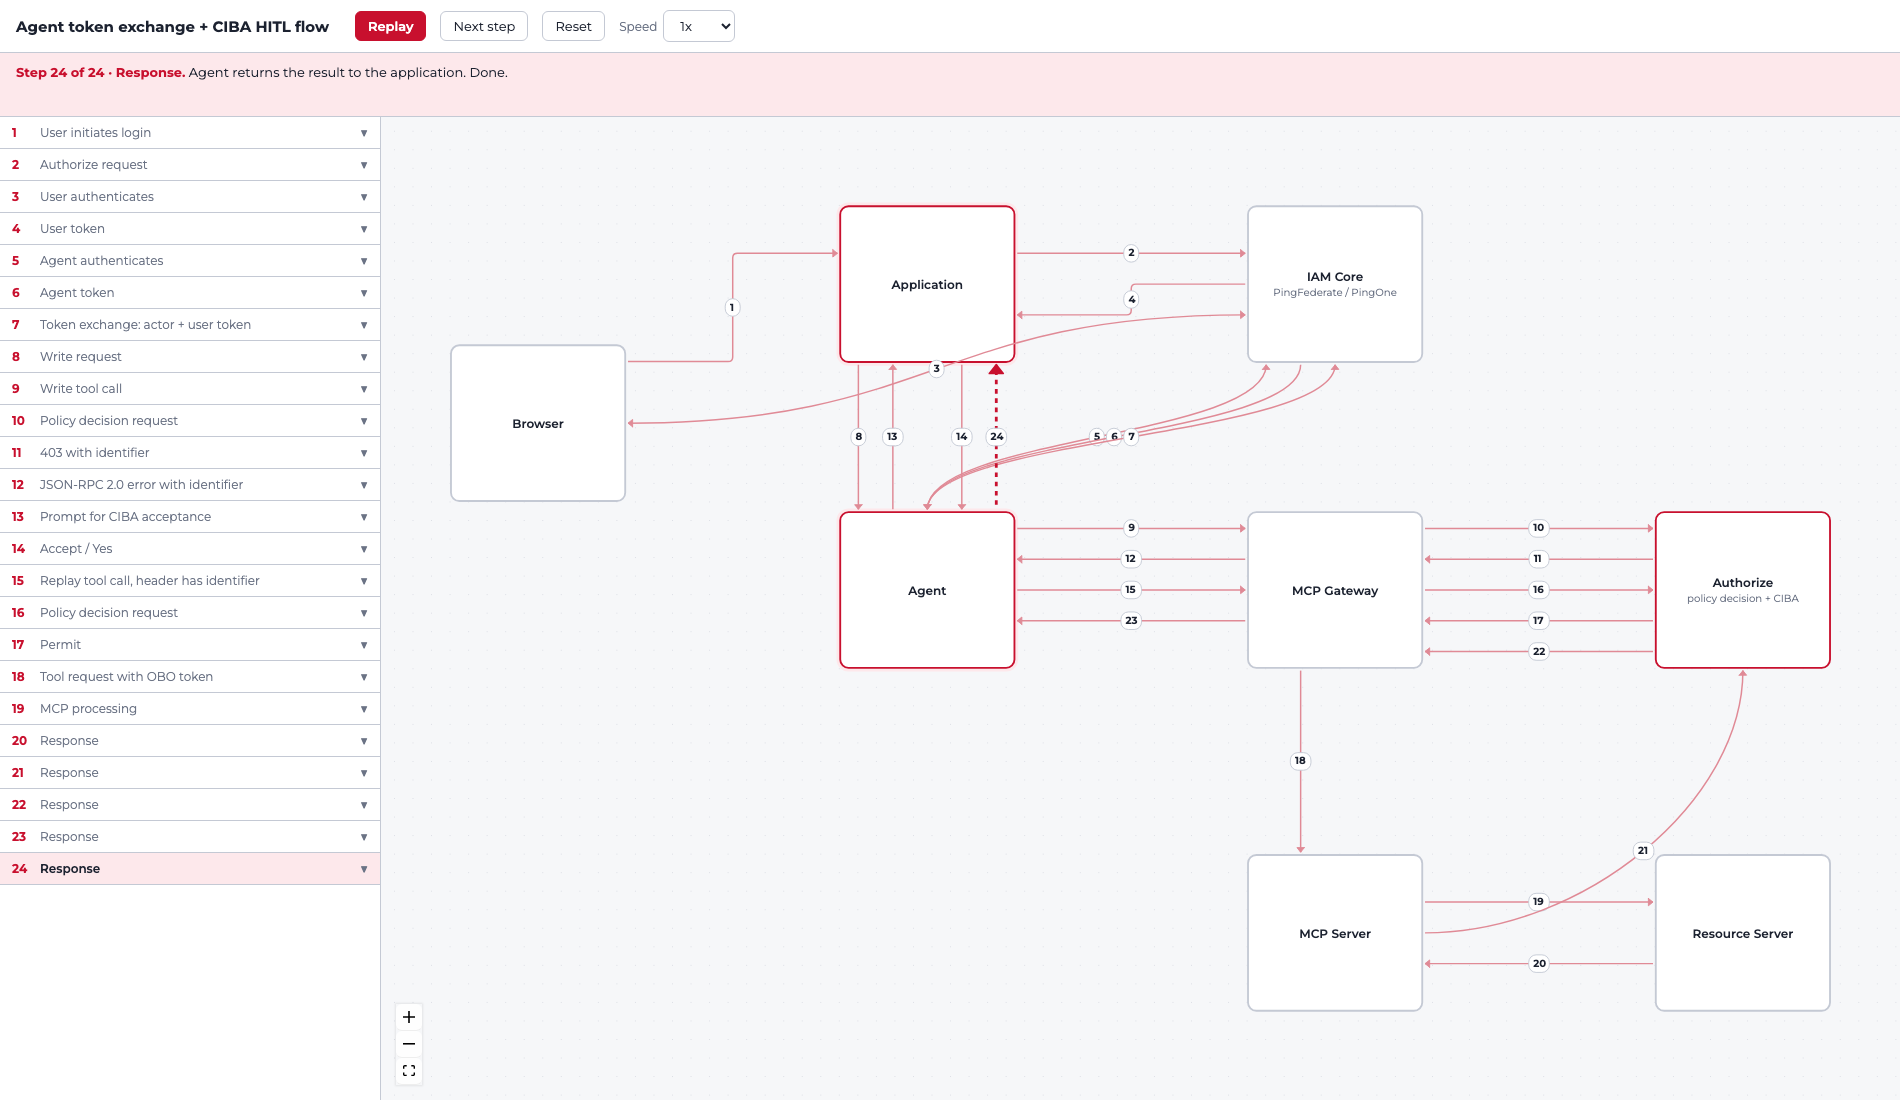
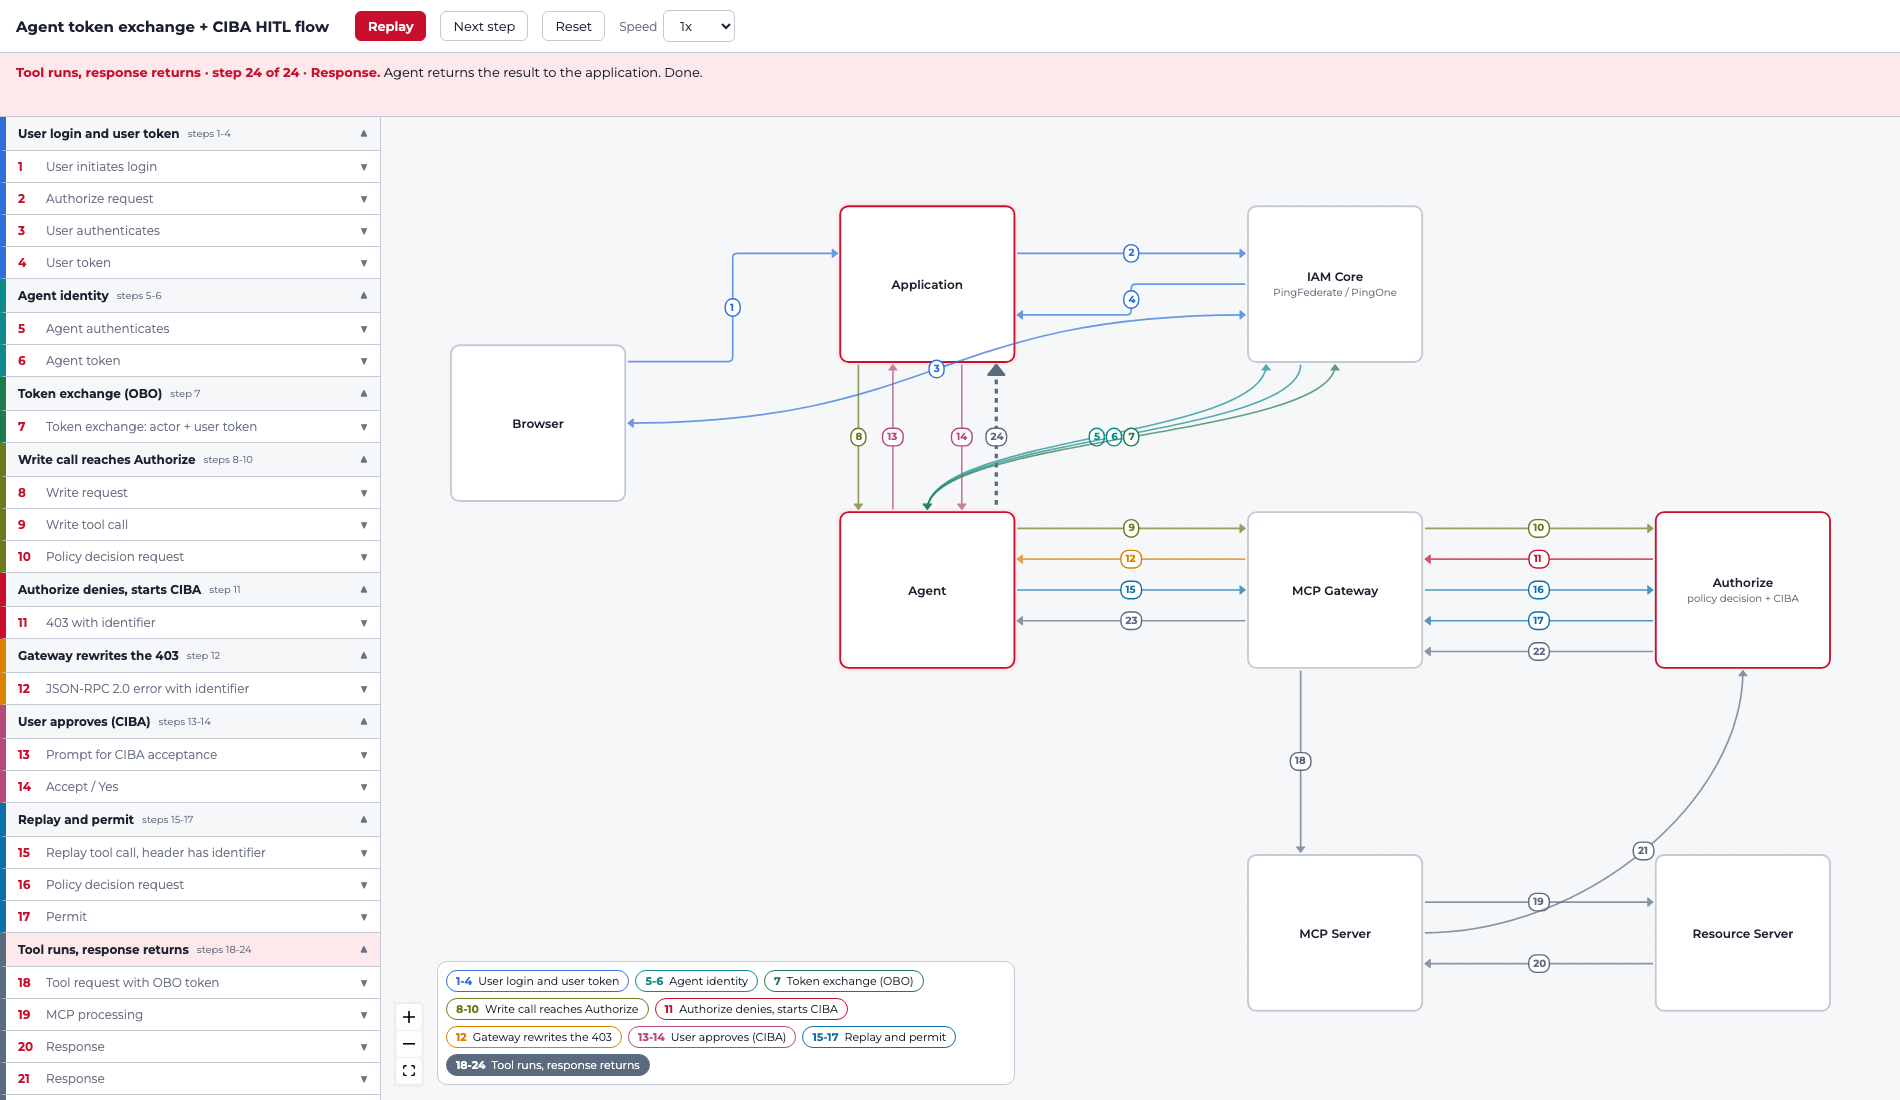
docs(planning): group the scope-to-tool POC diagram steps
Colored step groups in the step list, group legend and edge colors on the
canvas, and group names in the doc's step table. Steps stay individual.

diff --git a/docs/planning/scope-to-tool-poc/scope-to-tool-poc-diagram.html b/docs/planning/scope-to-tool-poc/scope-to-tool-poc-diagram.html
@@ -33,7 +33,19 @@
   .main { flex: 1; min-height: 0; display: flex; }
   .canvas { flex: 1; min-width: 0; }
   .list { width: 380px; overflow-y: auto; border-right: 1px solid var(--line); background: var(--panel); font-size: 12px; }
-  .item { border-bottom: 1px solid var(--line); }
+  .grp { display: flex; align-items: center; gap: 8px; padding: 9px 12px; cursor: pointer; font-weight: 700; font-size: 12px;
+         background: var(--bg); border-bottom: 1px solid var(--line); border-left: 6px solid var(--gc); }
+  .grp small { font-weight: 400; color: var(--muted); }
+  .grp .chev { margin-left: auto; color: var(--muted); font-size: 10px; }
+  .grp.on { background: var(--red-soft); }
+  .item { border-bottom: 1px solid var(--line); border-left: 6px solid var(--gc); }
+  .legend { display: flex; flex-wrap: wrap; gap: 6px; max-width: 560px; padding: 8px; background: var(--panel);
+            border: 1px solid var(--line); border-radius: 10px; font-size: 11px; }
+  .chip { display: flex; align-items: center; gap: 6px; padding: 3px 9px; border-radius: 12px; cursor: pointer;
+          border: 1.5px solid var(--gc); color: var(--ink); background: var(--panel); }
+  .chip b { color: var(--gc); }
+  .chip.on { background: var(--gc); color: #fff; }
+  .chip.on b { color: #fff; }
   .item .head { padding: 8px 12px; cursor: pointer; display: flex; gap: 8px; align-items: baseline; }
   .item .head:hover { background: var(--bg); }
   .item.on .head { background: var(--red-soft); font-weight: 600; }
@@ -69,7 +81,7 @@
 (function () {
   const h = React.createElement;
   const Flow = ReactFlow.default || ReactFlow;
-  const { Handle, Position, Background, Controls, MarkerType, useNodesState } = ReactFlow;
+  const { Handle, Position, Background, Controls, Panel, MarkerType, useNodesState } = ReactFlow;
 
   // Handles on every side at 10/30/50/70/90 percent, ids like r30, t70. Loose mode: any handle can be either end.
   const SIDES = { l: Position.Left, r: Position.Right, t: Position.Top, b: Position.Bottom };
@@ -247,6 +259,22 @@
   ];
   STEPS.forEach(function (s, i) { s.detail = DETAILS[i]; });
 
+  // Same grouping as the step table in the doc (section 9b). Steps stay individual; groups only organise them.
+  const GROUPS = [
+    { name: 'User login and user token',   from: 1,  to: 4,  color: '#2f6fdb' },
+    { name: 'Agent identity',              from: 5,  to: 6,  color: '#0f8b8d' },
+    { name: 'Token exchange (OBO)',        from: 7,  to: 7,  color: '#1f7a4d' },
+    { name: 'Write call reaches Authorize', from: 8,  to: 10, color: '#6b7a1a' },
+    { name: 'Authorize denies, starts CIBA', from: 11, to: 11, color: '#c8102e' },
+    { name: 'Gateway rewrites the 403',    from: 12, to: 12, color: '#d98200' },
+    { name: 'User approves (CIBA)',        from: 13, to: 14, color: '#b5497a' },
+    { name: 'Replay and permit',           from: 15, to: 17, color: '#0b6fa8' },
+    { name: 'Tool runs, response returns', from: 18, to: 24, color: '#5b6b7f' },
+  ];
+  STEPS.forEach(function (s, i) {
+    GROUPS.forEach(function (g, gi) { if (i + 1 >= g.from && i + 1 <= g.to) { s.g = gi; } });
+  });
+
   const params = new URLSearchParams(location.search);
   const startStep = params.has('step') ? parseInt(params.get('step'), 10) : -1;
 
@@ -262,6 +290,11 @@
     const sp = React.useState(1), speed = sp[0], setSpeed = sp[1];
     const op = React.useState(startStep), openIdx = op[0], setOpen = op[1];
     React.useEffect(function () { if (running) setOpen(step); }, [running, step]);
+    const cl = React.useState({}), collapsed = cl[0], setCollapsed = cl[1];
+    React.useEffect(function () {
+      if (step >= 0) setCollapsed(function (c) { const n = Object.assign({}, c); delete n[STEPS[step].g]; return n; });
+    }, [step]);
+    const curG = step >= 0 ? STEPS[step].g : -1;
 
     React.useEffect(function () {
       if (!running) return;
@@ -273,14 +306,16 @@
     const edges = React.useMemo(function () {
       return STEPS.map(function (s, i) {
         const active = i === step, seen = i < step;
-        const color = active ? '#c8102e' : seen ? '#e08a96' : '#8d94a6';
+        const color = GROUPS[s.g].color;
         const mk = { type: MarkerType.ArrowClosed, color: color };
         return {
           id: 'e' + i, source: s.f, sourceHandle: s.fh, target: s.t, targetHandle: s.th,
           type: s.type || 'smoothstep', animated: active,
           label: String(i + 1), labelBgPadding: [5, 3], labelBgBorderRadius: 8,
-          labelStyle: { fontWeight: 700 },
-          style: { stroke: color, strokeWidth: active ? 3 : 1.6, opacity: (active || seen || step === -1) ? 1 : 0.4 },
+          labelStyle: { fontWeight: 700, fill: color },
+          labelBgStyle: { fill: '#ffffff', stroke: color, strokeWidth: 1.5 },
+          style: { stroke: color, strokeWidth: active ? 3.5 : 1.8,
+                   opacity: step === -1 ? 0.9 : (active ? 1 : (seen ? 0.7 : 0.3)) },
           markerEnd: mk, markerStart: s.both ? mk : undefined,
           zIndex: active ? 10 : 1,
         };
@@ -304,19 +339,35 @@
     let cap = 'Press <b>Simulate</b> to walk the flow step by step, or click a step in the list to expand it. Drag any box to rearrange.';
     if (step >= 0) {
       const s = STEPS[step];
-      cap = '<b>Step ' + (step + 1) + ' of ' + STEPS.length + ' · ' + s.label + '.</b> ' + s.cap +
+      cap = '<b>' + GROUPS[s.g].name + ' · step ' + (step + 1) + ' of ' + STEPS.length + ' · ' + s.label + '.</b> ' + s.cap +
             (s.code ? '<pre>' + s.code.replace(/&/g, '&amp;').replace(/</g, '&lt;') + '</pre>' : '');
     }
 
-    const list = STEPS.map(function (s, i) {
-      const isOpen = i === openIdx;
-      return h('div', { key: i, className: 'item ' + (i === step ? 'on' : (i < step ? 'seen' : '')) },
-        h('div', { className: 'head', onClick: function () {
-            setRunning(false); setStep(i); setOpen(isOpen ? -1 : i); } },
-          h('span', { className: 'n' }, i + 1), h('span', null, s.label),
-          h('span', { className: 'chev' }, isOpen ? '\u25B2' : '\u25BC')),
-        isOpen ? h('div', { className: 'detail', dangerouslySetInnerHTML: { __html: s.detail } }) : null);
+    const list = [];
+    GROUPS.forEach(function (g, gi) {
+      const closed = !!collapsed[gi];
+      const range = g.from === g.to ? 'step ' + g.from : 'steps ' + g.from + '-' + g.to;
+      list.push(h('div', { key: 'g' + gi, className: 'grp' + (gi === curG ? ' on' : ''), style: { '--gc': g.color },
+          onClick: function () { setCollapsed(function (c) { const n = Object.assign({}, c); if (n[gi]) delete n[gi]; else n[gi] = true; return n; }); } },
+        h('span', null, g.name), h('small', null, range), h('span', { className: 'chev' }, closed ? '\u25BC' : '\u25B2')));
+      if (closed) return;
+      STEPS.forEach(function (s, i) {
+        if (s.g !== gi) return;
+        const isOpen = i === openIdx;
+        list.push(h('div', { key: i, className: 'item ' + (i === step ? 'on' : (i < step ? 'seen' : '')), style: { '--gc': g.color } },
+          h('div', { className: 'head', onClick: function () {
+              setRunning(false); setStep(i); setOpen(isOpen ? -1 : i); } },
+            h('span', { className: 'n' }, i + 1), h('span', null, s.label),
+            h('span', { className: 'chev' }, isOpen ? '\u25B2' : '\u25BC')),
+          isOpen ? h('div', { className: 'detail', dangerouslySetInnerHTML: { __html: s.detail } }) : null));
+      });
     });
+
+    const legend = h('div', { className: 'legend' }, GROUPS.map(function (g, gi) {
+      return h('div', { key: gi, className: 'chip' + (gi === curG ? ' on' : ''), style: { '--gc': g.color },
+          title: g.name, onClick: function () { setRunning(false); setStep(g.from - 1); setOpen(g.from - 1); } },
+        h('b', null, g.from === g.to ? g.from : g.from + '-' + g.to), g.name);
+    }));
 
     return h('div', { className: 'app' },
       h('div', { className: 'bar' },
@@ -336,7 +387,8 @@
             nodes: shownNodes, edges: edges, nodeTypes: nodeTypes, onNodesChange: onNodesChange,
             connectionMode: 'loose', nodesConnectable: false, fitView: true,
             fitViewOptions: { padding: 0.1 }, minZoom: 0.3, proOptions: { hideAttribution: true },
-          }, h(Background, { gap: 20, color: '#c4c9d4' }), h(Controls, { showInteractive: false })))));
+          }, h(Background, { gap: 20, color: '#c4c9d4' }), h(Controls, { showInteractive: false }),
+            h(Panel, { position: 'bottom-left', style: { marginLeft: 56 } }, legend)))));
   }
 
   ReactDOM.createRoot(document.getElementById('root')).render(h(App));

diff --git a/docs/planning/scope-to-tool-poc/scope-to-tool-poc-pattern.md b/docs/planning/scope-to-tool-poc/scope-to-tool-poc-pattern.md
@@ -154,21 +154,21 @@ Source: CJ's post in the thread ("Entergy POC (1).png"). Paul's one suggested ch
 
 ![Agent token exchange + CIBA HITL flow](scope-to-tool-poc-diagram.png)
 
-Interactive version: open [scope-to-tool-poc-diagram.html](scope-to-tool-poc-diagram.html) in a browser (needs internet for the ReactFlow and font CDNs). Boxes are draggable, and it has Simulate, Next step, Reset and a speed control. The step list on the left expands each step to show what happens, why it matters, token payloads, and open questions. The caption shows the current step.
+Interactive version: open [scope-to-tool-poc-diagram.html](scope-to-tool-poc-diagram.html) in a browser (needs internet for the ReactFlow and font CDNs). Boxes are draggable, and it has Simulate, Next step, Reset and a speed control. The steps are grouped as in the table below, shown as colored groups in the step list and a legend on the canvas. The step list on the left expands each step to show what happens, why it matters, token payloads, and open questions. The caption shows the current step.
 
 The 24 steps, from the sequence diagram:
 
 | Steps | What happens |
 |---|---|
-| 1-4 | User logs in. The application requests `api:read api:write api:delete`. IAM Core issues a **user token** (`aud` = API gateway, `sub` = user). |
-| 5-6 | Agent authenticates and gets an **agent token** (`sub` = agentID, `aud` = AI gateway). |
-| 7 | **Token exchange** with actor token + user token. Result: `sub` = user, `act.sub` = agentID, scopes `api:read, api:write, api:delete`. |
-| 8-10 | Application asks the agent for a write. The agent calls the write tool through the MCP Gateway. The gateway sends a policy decision request to Authorize. |
-| 11 | Write requires HITL. Authorize triggers **CIBA** and returns **DENY with an identifier** (a 403). |
-| 12 | Gateway **rewrites the 403 into a JSON-RPC 2.0 error** that carries the identifier. |
-| 13-14 | Agent prompts the application for CIBA acceptance. User says yes. |
-| 15-17 | Agent **replays the tool call** with a header containing the identifier. Authorize detects the header, checks the CIBA call, and returns PERMIT. |
-| 18-24 | Gateway sends the tool request with the OBO token to the MCP Server, which calls the Resource Server. The response returns through Authorize and the gateway to the agent and application. |
+| 1-4 · User login and user token | User logs in. The application requests `api:read api:write api:delete`. IAM Core issues a **user token** (`aud` = API gateway, `sub` = user). |
+| 5-6 · Agent identity | Agent authenticates and gets an **agent token** (`sub` = agentID, `aud` = AI gateway). |
+| 7 · Token exchange (OBO) | **Token exchange** with actor token + user token. Result: `sub` = user, `act.sub` = agentID, scopes `api:read, api:write, api:delete`. |
+| 8-10 · Write call reaches Authorize | Application asks the agent for a write. The agent calls the write tool through the MCP Gateway. The gateway sends a policy decision request to Authorize. |
+| 11 · Authorize denies, starts CIBA | Write requires HITL. Authorize triggers **CIBA** and returns **DENY with an identifier** (a 403). |
+| 12 · Gateway rewrites the 403 | Gateway **rewrites the 403 into a JSON-RPC 2.0 error** that carries the identifier. |
+| 13-14 · User approves (CIBA) | Agent prompts the application for CIBA acceptance. User says yes. |
+| 15-17 · Replay and permit | Agent **replays the tool call** with a header containing the identifier. Authorize detects the header, checks the CIBA call, and returns PERMIT. |
+| 18-24 · Tool runs, response returns | Gateway sends the tool request with the OBO token to the MCP Server, which calls the Resource Server. The response returns through Authorize and the gateway to the agent and application. |
 
 What this diagram settles compared with the thread:
 
